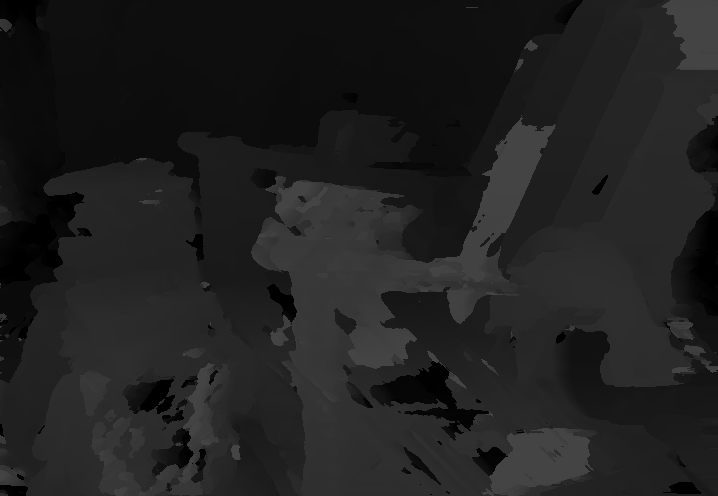
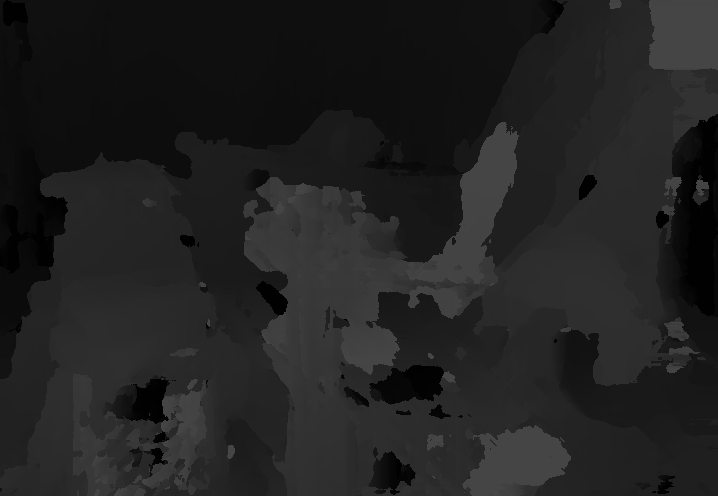
adapred nomenclature to serve MeddEval_v3 evaluation

diff --git a/mdaSGM_newIO.py b/mdaSGM_newIO.py
@@ -40,7 +40,7 @@ p1 = (0.5 * bSf * bSf)
 p2 = (2 * bSf * bSf)
 
 # Number of paths (SUPPORTS 1-8)
-nP = 3
+nP = 8
 # ---------------------------------------------------------------------------
 # ---------------------------------------------------------------------------
 
@@ -91,11 +91,9 @@ for p in imSet:
     #print(vmax)
      
     #DEBUG, CHEATING CALIB DISP RANGE-------------------
-    dR = np.arange(dMin, dMax)
+    #dR = np.arange(vmin, vmax)
     
-    # If dMin starting above 1: offset must be added back to dispImg 
-    dD = dR[0] - 1
-    
+
     # ----------------------#
     
     # Calculate raw cost
@@ -121,7 +119,7 @@ for p in imSet:
     #Convert final disparities to .PFM for eval 
     dMap2 = np.flipud(dMap)
     dMap2 = dMap2.astype(np.float32)
-    filename = "dMap.pfm"
+    filename = os.path.join("./data", p, "disp0mda.pfm")
     file = open(filename,"w")
     dMap3 = mda.save_pfm(file,dMap2, scale = 1)
     file.close()

diff --git a/pfmEval.py b/pfmEval.py
@@ -53,7 +53,8 @@ def readGT(f):
     
 # Import L+R image pair, calib file, as well as metric depth maps
 
-gt = readGT("./dMap.pfm") 
+gt = readGT("./data/Adirondack/disp0GT.pfm")
+ours = readGT(("./data/Adirondack/disp0mda.pfm")) 
 
 # Plot pfm disparities
 print("Ground truth disp left:\n")
@@ -64,4 +65,10 @@ axes.set_title("gtL")
 axes.imshow(gt,cmap='gray')
 plt.show()
 
-
+print("mdaSGM disp left:\n")
+fig,axes = plt.subplots(1,1)
+axes.set_xlabel("X")
+axes.set_ylabel("Y")
+axes.set_title("Ours")
+axes.imshow(ours,cmap='gray')
+plt.show()

diff --git a/mdaSGMlib.py b/mdaSGMlib.py
@@ -139,7 +139,7 @@ def dispRangeHist(mdL, mdR, doffs, baseline, focus):
     dR = dR.astype(np.int16)
     
     # If dMin starting above 1: offset must be added back to dispImg 
-    dD = dR[0] - 1
+    dD = dR[0] #- 1 (-1 theoretically correct, yet detrimental on quality)
     
     # # Plots
     # fig,axes = plt.subplots(1,1)
